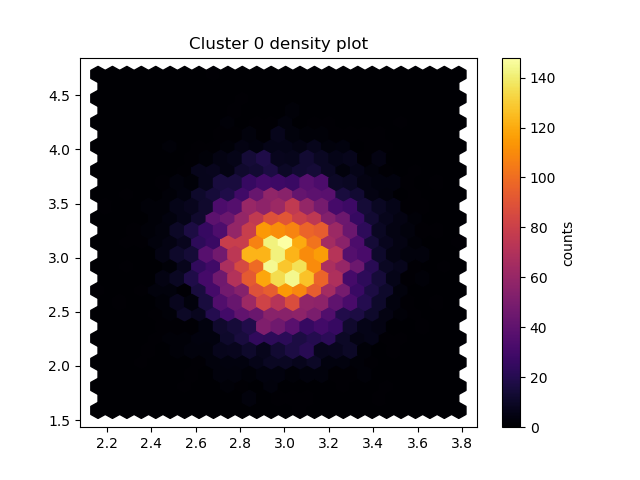
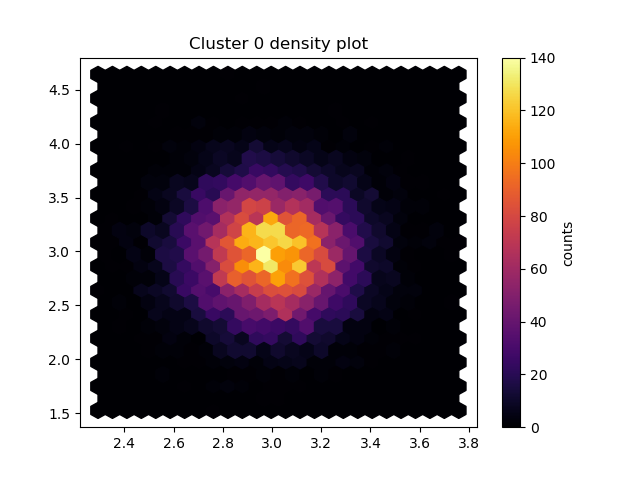
added cumulative hexplot and CPE now calculates for every single cluster

diff --git a/cpe_tests/src/cpeTest.py b/cpe_tests/src/cpeTest.py
@@ -48,14 +48,22 @@ for index in range(n_clusters):
     yclusters.extend(clustersy[index])
     labelclusters.extend([index for _ in range(clusters_config[index]['size'])])
 
-df = pd.DataFrame({'x_value':xclusters, 'y_value':yclusters, 'label':labelclusters})
+plt.hexbin(xclusters, yclusters, gridsize=25, cmap='inferno')
+plt.title('All clusters density plot')
+cb = plt.colorbar()
+cb.set_label('counts')
+plt.savefig('../output/' + str(n_clusters) + 'clusters_all_clusters.png')
+plt.clf()
 
-df = pnu_from_dataframe(df, 'label', 0, pos_size=0.8, neg_size=0.8)
+for index in range(n_clusters):
+    df = pd.DataFrame({'x_value':xclusters, 'y_value':yclusters, 'label':labelclusters})
 
-x_l = df.loc[df['y'] != 0][['x_value', 'y_value']].values
-y_l = df.loc[df['y'] != 0]['y'].values
-x_u = df.loc[df['y'] == 0][['x_value', 'y_value']].values
+    df = pnu_from_dataframe(df, 'label', index, pos_size=0.8, neg_size=0.8)
 
-prior = cpe(x_l, y_l, x_u)
+    x_l = df.loc[df['y'] != 0][['x_value', 'y_value']].values
+    y_l = df.loc[df['y'] != 0]['y'].values
+    x_u = df.loc[df['y'] == 0][['x_value', 'y_value']].values
 
-print('cpe prior = ', prior)
+    prior = cpe(x_l, y_l, x_u)
+
+    print('cpe prior for %d = %.8f' %(index, prior))
